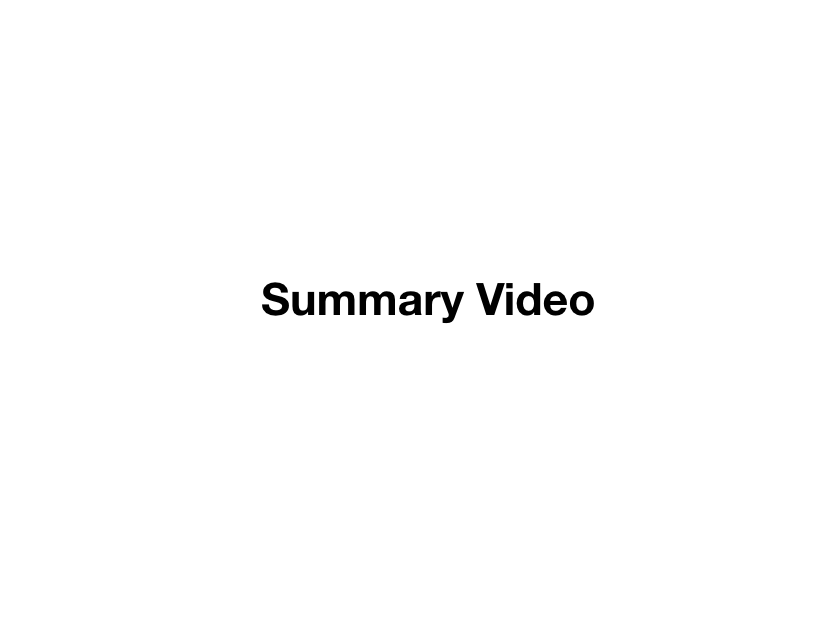
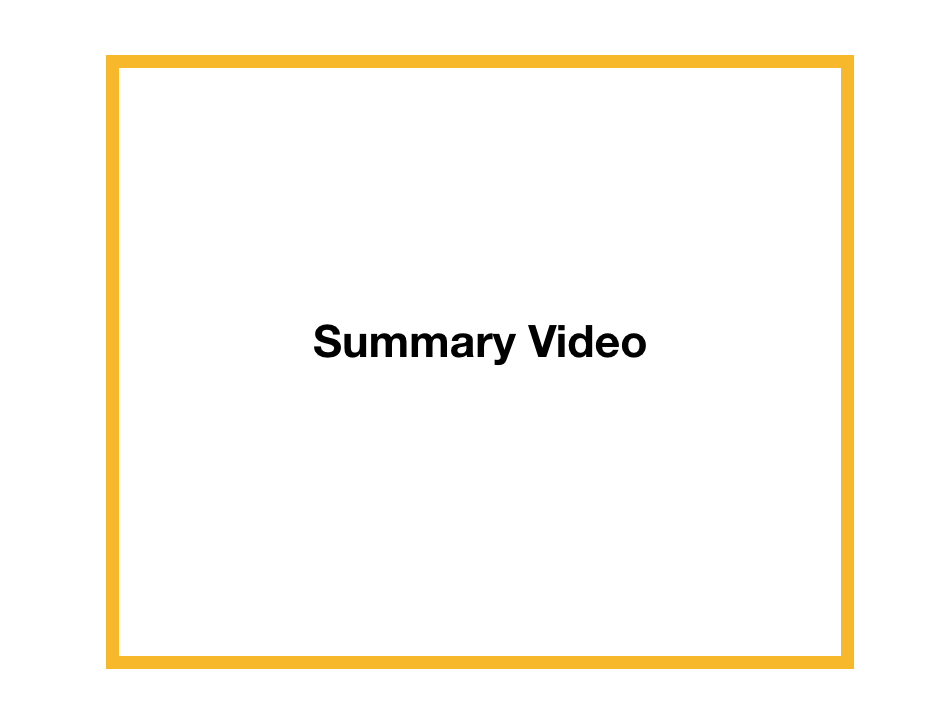
up

Changed region(s): [[0.0935, 0.0621, 0.9041, 0.9317], [0.3118, 0.4348, 0.717, 0.4969]]

diff --git a/RobotPoking.html b/RobotPoking.html
@@ -60,11 +60,17 @@
                 accuracy to generate plausible contact response for novel rigid objects.
             </p>
             
-            <div class="12u$"><a href=""><span class="image fit"><img src="images/RobotPoking/system_all.png" alt=""></span></a></div>
-
-
-
             <!--div class="12u$"><a href=""><span class="image fit"><img src="images/RobotPoking/system_all.png" alt=""></span></a></div-->
+            <div class="box alt">
+                <div class="row 50% uniform">
+                    <div class="6u"><a href=""><span class="image fit">
+                        <img src="images/RobotPoking/system_all.png" alt=""></span></a>
+                    </div>
+                    <div class="6u$"><a href=""><span class="image fit">
+                            <img src="images/RobotPoking/poking_video.png" alt=""></span></a>
+                    </div>           
+                </div>
+            </div>
 
             <p><i>Our Poking System</i> gathered data using the point probe, 
                 and the simulator generalizes force predictions to the line and cylinder probes. 
@@ -105,7 +111,7 @@
 
             <div class="row">
                 <div class="6u 12u$(xsmall)">
-                    <p>March 19, 2019<br>
+                    <p>September 15, 2019<br>
                         Copyright &copy; <a href="https://DeerKK.github.io/">Kai Lu</a>
                     </p>
                 </div>
